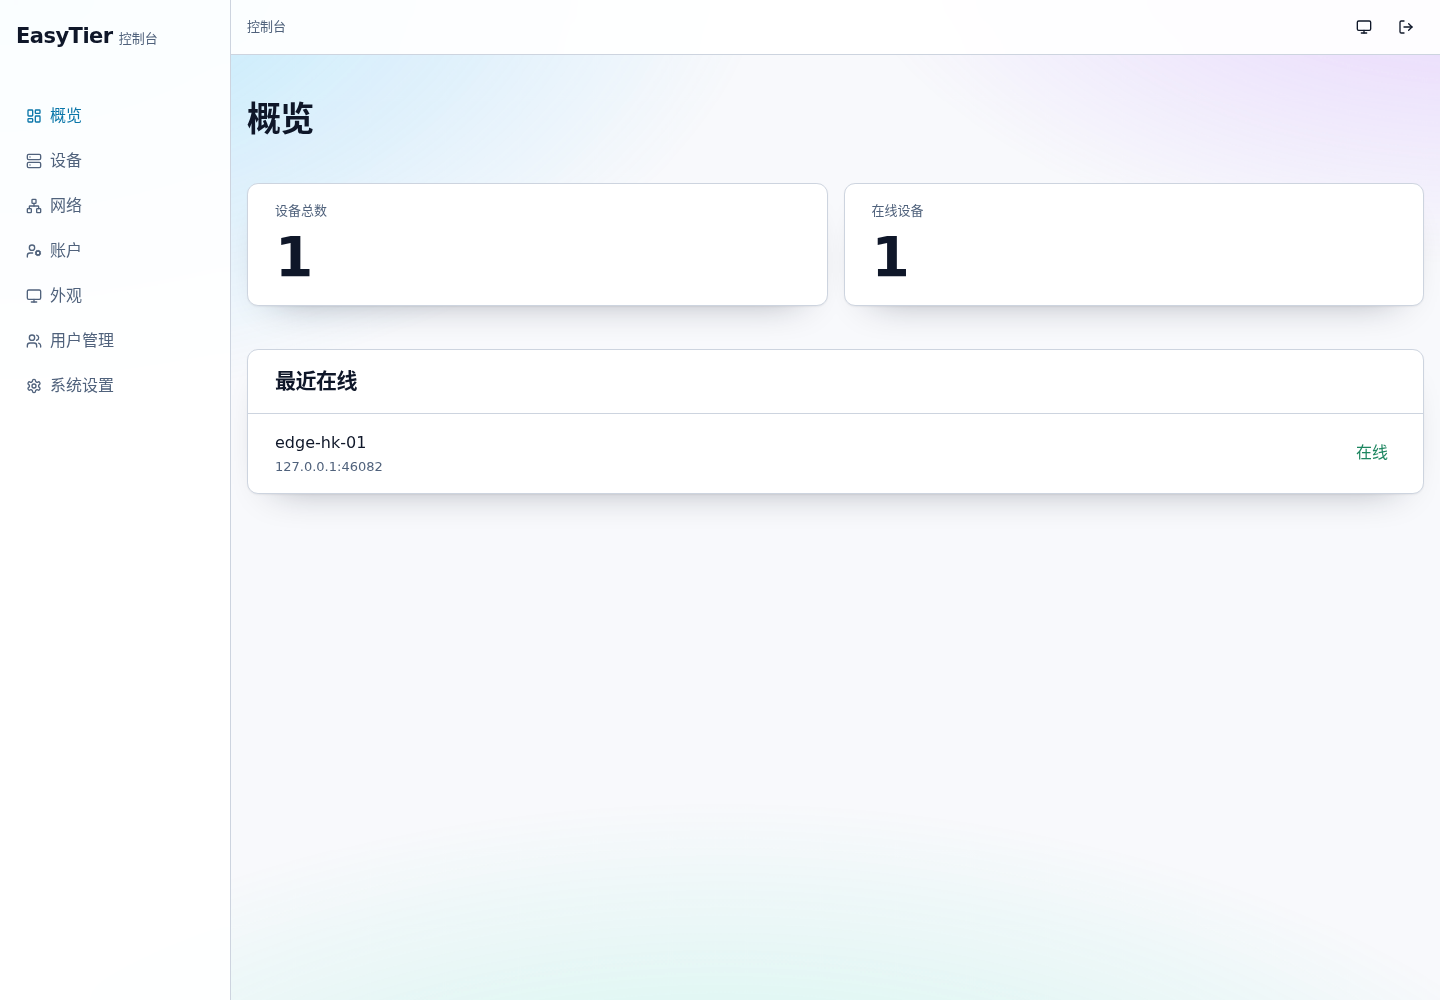
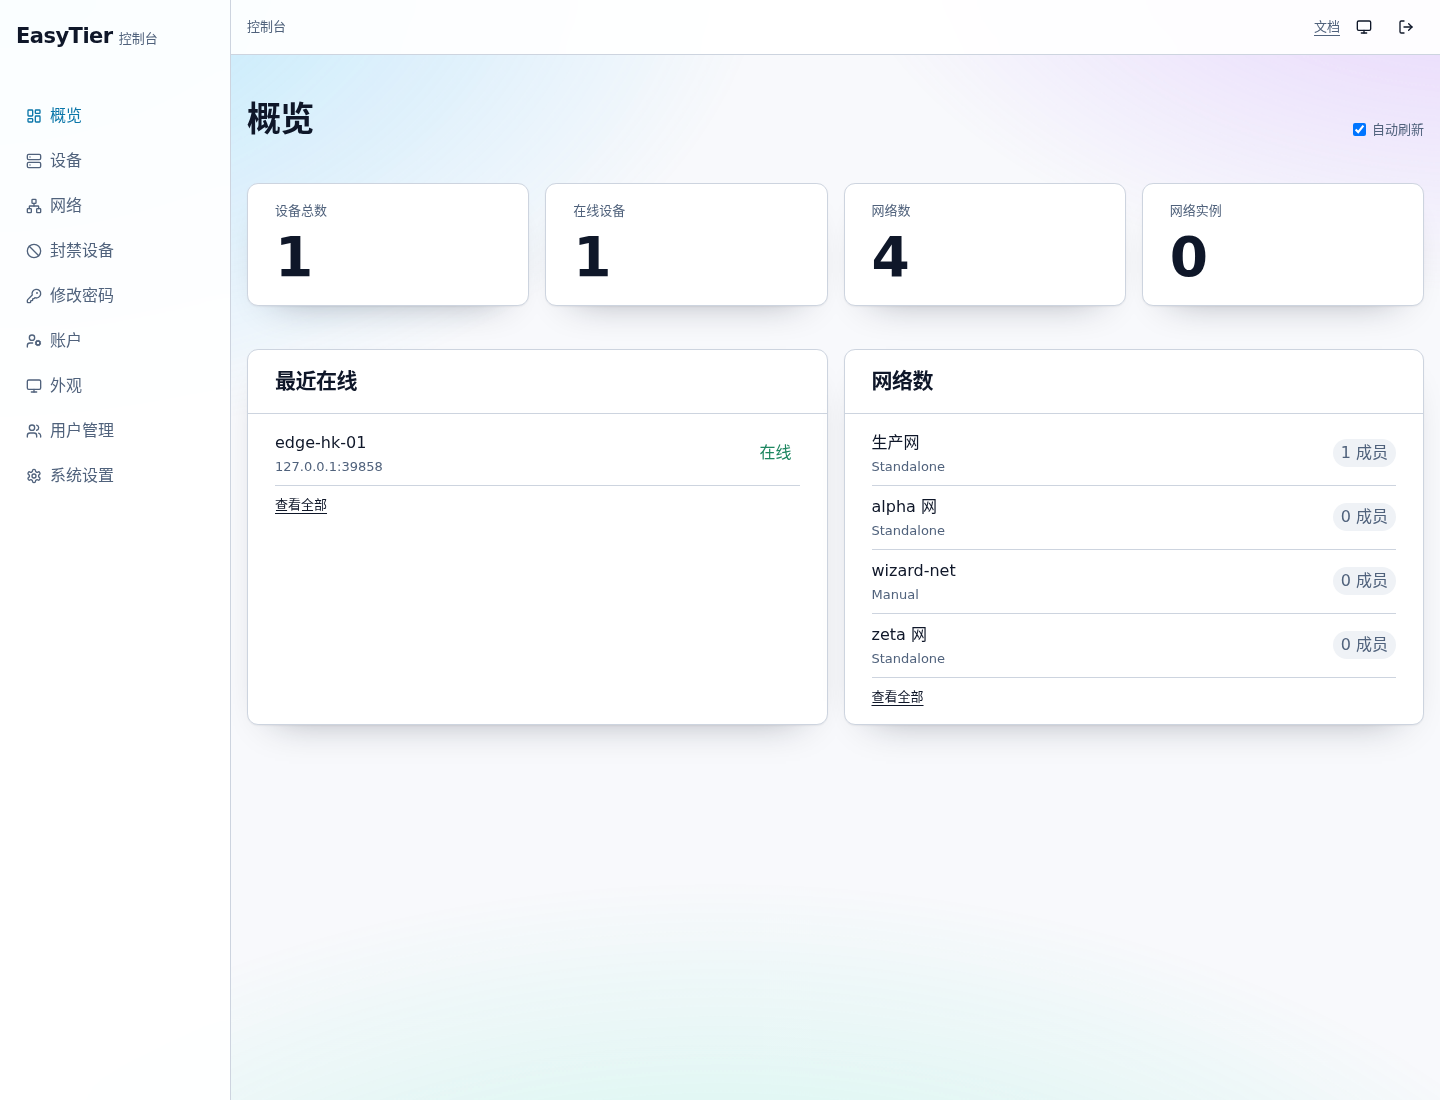
client: the dashboard shows the four counts and can stop polling
Four stat cards (devices, online, networks, instances), an auto-refresh checkbox
that actually disables the refetch interval, and view-all links from both preview
columns, which is what the first console's dashboard had.

diff --git a/client/src/features/dashboard/dashboard-page.tsx b/client/src/features/dashboard/dashboard-page.tsx
@@ -1,26 +1,44 @@
 import { useQuery } from '@tanstack/react-query';
+import { useState } from 'react';
+import { Link } from 'react-router-dom';
 import { copy } from '../../copy/zh-CN';
 import { api } from '../../lib/http';
 import { Badge, Card, CardBody, CardHeader, Skeleton } from '../../ui';
 
 export function DashboardPage() {
-  const summary = useQuery({ queryKey: ['summary'], queryFn: api.summary, refetchInterval: 5_000 });
-  const machines = useQuery({ queryKey: ['machines'], queryFn: api.machines, refetchInterval: 5_000 });
+  // The original console could pause the polling; an operator watching a quiet
+  // cluster should not be paying for a request every five seconds.
+  const [autoRefresh, setAutoRefresh] = useState(true);
+  const interval = autoRefresh ? 5000 : false;
+  const summary = useQuery({ queryKey: ['summary'], queryFn: api.summary, refetchInterval: interval });
+  const machines = useQuery({ queryKey: ['machines'], queryFn: api.machines, refetchInterval: interval });
+  const networks = useQuery({ queryKey: ['networks'], queryFn: api.networks, refetchInterval: interval });
+
+  const devices = machines.data ?? [];
+  const networkRows = networks.data ?? [];
+  const instanceCount = devices.reduce((total, machine) => total + (machine.running_network_instances || []).length, 0);
 
   const stats = [
-    { label: copy.dashboard.devices, value: summary.data?.device_count },
-    { label: copy.dashboard.online, value: summary.data?.online_device_count },
+    { label: copy.dashboard.devices, value: summary.data ? summary.data.device_count : undefined },
+    { label: copy.dashboard.online, value: summary.data ? summary.data.online_device_count : undefined },
+    { label: copy.dashboard.networks, value: networks.isLoading ? undefined : networkRows.length },
+    { label: copy.dashboard.instances, value: machines.isLoading ? undefined : instanceCount },
   ];
 
-  const recent = (machines.data ?? []).filter((machine) => machine.online).slice(0, 5);
+  const recentDevices = devices.filter((machine) => machine.online).slice(0, 5);
+  const recentNetworks = networkRows.slice().sort((a, b) => a.display_name.localeCompare(b.display_name)).slice(0, 5);
 
   return (
     <div className="space-y-[var(--gap-section)]">
-      <header>
+      <header className="flex flex-wrap items-end justify-between gap-[var(--gap-card)]">
         <h1 className="text-phi-2xl font-semibold tracking-tight">{copy.dashboard.title}</h1>
+        <label className="flex items-center gap-[var(--u-2)] text-phi-sm text-muted-foreground">
+          <input type='checkbox' checked={autoRefresh} onChange={(event) => setAutoRefresh(event.target.checked)} />
+          {copy.dashboard.autoRefresh}
+        </label>
       </header>
 
-      <div className="grid gap-[var(--gap-card)] sm:grid-cols-2">
+      <div className="grid gap-[var(--gap-card)] sm:grid-cols-2 lg:grid-cols-4">
         {stats.map((stat) => (
           <Card key={stat.label}>
             <CardBody>
@@ -33,24 +51,53 @@ export function DashboardPage() {
         ))}
       </div>
 
-      <Card>
-        <CardHeader title={copy.dashboard.recent} />
-        <CardBody className="space-y-[var(--u-3)]">
-          {machines.isLoading ? <Skeleton className="h-[var(--u-12)]" /> : null}
-          {!machines.isLoading && recent.length === 0 ? (
-            <p className="text-phi-sm text-muted-foreground">{copy.dashboard.empty}</p>
-          ) : null}
-          {recent.map((machine) => (
-            <div key={machine.machine_id} className="flex items-center justify-between gap-[var(--u-4)] border-b border-border pb-[var(--u-3)] last:border-0 last:pb-0">
-              <div className="min-w-0">
-                <p className="truncate text-phi-base font-medium">{machine.alias || machine.hostname || machine.machine_id}</p>
-                <p className="truncate text-phi-sm text-muted-foreground">{machine.client_url || '—'}</p>
+      <div className="grid gap-[var(--gap-card)] lg:grid-cols-2">
+        <Card>
+          <CardHeader title={copy.dashboard.recent} />
+          <CardBody className="space-y-[var(--u-3)]">
+            {machines.isLoading ? <Skeleton className="h-[var(--u-12)]" /> : null}
+            {!machines.isLoading && recentDevices.length === 0 ? (
+              <p className="text-phi-sm text-muted-foreground">{copy.dashboard.empty}</p>
+            ) : null}
+            {recentDevices.map((machine) => (
+              <div key={machine.machine_id} className="flex items-center justify-between gap-[var(--u-4)] border-b border-border pb-[var(--u-3)] last:border-0 last:pb-0">
+                <div className="min-w-0">
+                  <p className="truncate text-phi-base font-medium">{machine.alias || machine.hostname || machine.machine_id}</p>
+                  <p className="truncate text-phi-sm text-muted-foreground">{machine.client_url || '—'}</p>
+                </div>
+                <Badge tone='success'>{copy.devices.online}</Badge>
               </div>
-              <Badge tone="success">{copy.devices.online}</Badge>
-            </div>
-          ))}
-        </CardBody>
-      </Card>
+            ))}
+            <Link className="inline-block text-phi-sm underline underline-offset-4" to='/devices'>
+              {copy.dashboard.viewAll}
+            </Link>
+          </CardBody>
+        </Card>
+
+        <Card>
+          <CardHeader title={copy.dashboard.networks} />
+          <CardBody className="space-y-[var(--u-3)]">
+            {networks.isLoading ? <Skeleton className="h-[var(--u-12)]" /> : null}
+            {!networks.isLoading && recentNetworks.length === 0 ? (
+              <p className="text-phi-sm text-muted-foreground">{copy.dashboard.noNetworks}</p>
+            ) : null}
+            {recentNetworks.map((network) => (
+              <div key={network.network_id} className="flex items-center justify-between gap-[var(--u-4)] border-b border-border pb-[var(--u-3)] last:border-0 last:pb-0">
+                <div className="min-w-0">
+                  <p className="truncate text-phi-base font-medium">{network.display_name}</p>
+                  <p className="truncate text-phi-sm text-muted-foreground">{network.networking_method}</p>
+                </div>
+                <Badge>
+                  {network.member_count} {copy.networks.members}
+                </Badge>
+              </div>
+            ))}
+            <Link className="inline-block text-phi-sm underline underline-offset-4" to='/networks'>
+              {copy.dashboard.viewAll}
+            </Link>
+          </CardBody>
+        </Card>
+      </div>
     </div>
   );
 }

diff --git a/client/src/copy/zh-CN.ts b/client/src/copy/zh-CN.ts
@@ -63,6 +63,10 @@ export const copy = {
     placeholder: 'https://example.com/wallpaper.jpg（留空使用内置背景）',
   },
   dashboard: {
+    autoRefresh: '自动刷新',
+    instances: '网络实例',
+    viewAll: '查看全部',
+    noNetworks: '还没有网络',
     title: '概览',
     devices: '设备总数',
     online: '在线设备',

diff --git a/ai-censorship/ledger.md b/ai-censorship/ledger.md
@@ -304,3 +304,4 @@
 | F-298 | r228 | R-A 前端 | P2 | 网络详情缺少原版的「临时成员」与「配置复制」：签发凭据后只给出密钥，没有可直接粘贴的接入命令；成员 override 只能保存/清空，不能复制 | FIXED | 凭据页在签发后现拼 `easytier-core -d --network-name <net> --network-secret <cred>`（网络名取自 GET /networks/{id}）并带复制按钮；成员 override 增加「复制」。浏览器实测：命令为 easytier-core -d --network-name 生产网 --network-secret …，含网络名与密钥，0 console error。ACL 统计仍缺（需代理实例侧 RPC），已在 UI-MATRIX 标注 |
 | F-299 | r229 | R-A 前端 | P2 | 网络创建表单只有名称与网段，方法被写死 Standalone；原版可选 standalone/manual/gateway/public server 并带 secure mode 与初始节点 | FIXED | createNetwork 改为接收完整 settings；表单加组网方式 select、Manual 时的节点地址、Gateway/PublicServer 时的公共服务器地址、安全模式复选框。浏览器实测：四种方法可选、节点地址仅在 Manual 出现（默认 0 个）、创建 wizard-net 后服务端返回 networking_method=Manual、peer_urls=[tcp://127.0.0.1:21010]、virtual_cidr=10.190.0.0/29；0 console error |
 | F-300 | r230 | R-A 前端 | P2 | 全局壳缺原版的四项入口：文档链接、封禁设备页、改密页、语言切换 | FIXED | 导航加「封禁设备」（/devices/blocked，复用 BlockedDevices）与「修改密码」（/account/password，新页面，含两次输入一致性校验）；顶栏加文档外链（easytier.cn）。浏览器实测：导航含两项、文档 href 正确、两个路由各自渲染、错误当前密码时服务端 401 被页面显示（预期内的 console 401，非缺陷）。语言切换未做（缺口已记在 UI-MATRIX），已在 UI-MATRIX 说明原因（需先抽 locale 表） |
+| F-301 | r231 | R-A 前端 | P2 | 概览只有设备总数与在线数两张卡，没有网络数、实例数、自动刷新开关与 view all；原版 Dashboard 这四样都有 | FIXED | 概览改为四张统计卡（设备/在线/网络/实例）、加自动刷新开关（关闭后 refetchInterval=false，实测 6.5s 内无 /machines 请求）、设备与网络两个预览列各带「查看全部」。浏览器实测：卡片 [1,1,4,0]、开关关闭停止轮询、打开恢复、2 个 view all、0 console error |

diff --git a/docs/UI-MATRIX.md b/docs/UI-MATRIX.md
@@ -14,7 +14,7 @@
 | 网络详情增强 | NetworkDetail（1660 行）：临时成员、配置复制/重置、ACL 统计（bytes/packets/rule）、对端与路由 | **已做**：临时成员（签发凭据 → 现拼 `easytier-core -d --network-name <net> --network-secret <cred>` 并复制）、成员 override 的复制与清空；**缺**：ACL 统计（需要代理实例侧 RPC，控制面目前只代理 WebClientService）、对端/路由（设备详情页已有网络维度，未做实例维度） | 部分 |
 | 网络创建 | NetworkList：networking_method（standalone/manual/gateway/public server）、secure mode、initial nodes | **已实现**：四种方法的select、Manual 显示节点地址、Gateway/PublicServer 显示公共服务器地址、安全模式复选框 | 已对齐 |
 | 全局壳 | MainPage：语言切换、主题、文档链接、设备接入、封禁设备页、改密页、登出 | **已做**：主题、登出、文档入口（指向 easytier.cn）、封禁设备独立页 /devices/blocked、改密页 /account/password；**缺**：语言切换（copy 是单一 zh-CN 模块，被约 20 个组件直接 import，要做 i18n 需要先抽成 locale 表 + context） | 部分 |
-| Dashboard | Dashboard：自动刷新、实例计数、在线成员、view all | 有设备/在线/最近在线 | 部分 |
+| Dashboard | Dashboard.vue：自动刷新、实例计数、在线成员、view all | **已实现**：四张统计卡（设备/在线/网络/实例）、自动刷新开关（关掉即停止轮询）、设备与网络两个预览列（各带「查看全部」） | 已对齐 |
 | 登录 | Login：验证码、注册、SSO | 有注册（setup）、OIDC、无验证码 | 部分 |
 
 ## 2. 我们已有的（原版没有或更弱）

diff --git a/ai-censorship/review-20261101-r231.md b/ai-censorship/review-20261101-r231.md
@@ -1,0 +1,30 @@
+# 第 231 轮评审（2026-11-01）— 概览页补齐四张卡与轮询开关
+
+原版 Dashboard：自动刷新、实例计数、在线成员、view all。我们只有两张卡。
+
+## 1. 改动
+
+| 项 | 实现 |
+|---|---|
+| 统计卡 | 设备总数 / 在线设备 / 网络数 / 网络实例（实例数 = 各设备 running_network_instances 之和） |
+| 自动刷新 | 复选框；关闭时三个查询的 refetchInterval 置 false |
+| view all | 设备预览与网络预览各一个链接 |
+
+## 2. 浏览器实测
+
+| 断言 | 结果 |
+|---|---|
+| 四张卡渲染 | 通过（1 / 1 / 4 / 0） |
+| 关闭自动刷新后 6.5s 内无 /machines 请求 | 通过 |
+| 重新打开后请求恢复 | 通过 |
+| 两个「查看全部」链接 | 通过 |
+| console error / 失败请求 | 0 |
+
+## 3. 一点观察
+
+实例数显示 0——因为演示环境里那台 2.7.0 客户端此刻没有运行中的网络实例。
+这是真实数据，不是渲染错误；卡片如实反映「设备在线但没有实例」。
+
+## 4. 状态
+
+UI 目标六项里，① ② ④ ⑥ 已完成；③ 与 ⑤ 部分完成并记录了原因（ACL 统计需实例侧 RPC；语言切换需先抽 locale 表）。
